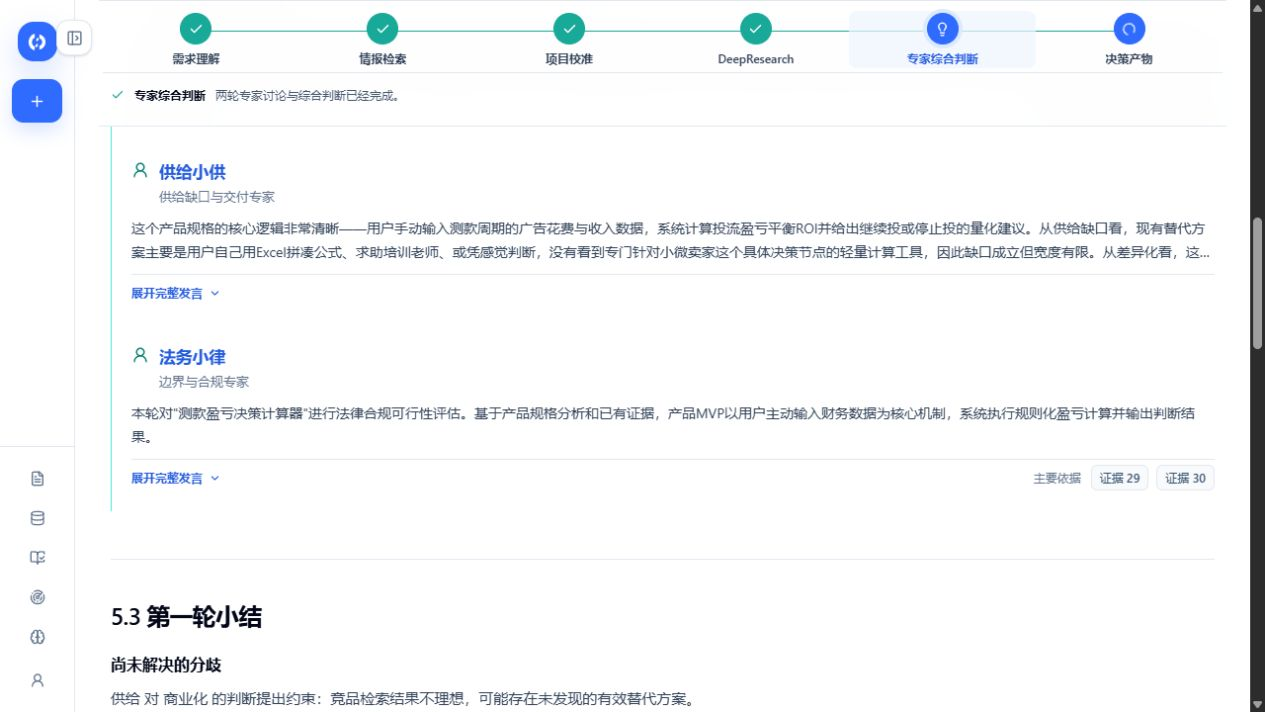
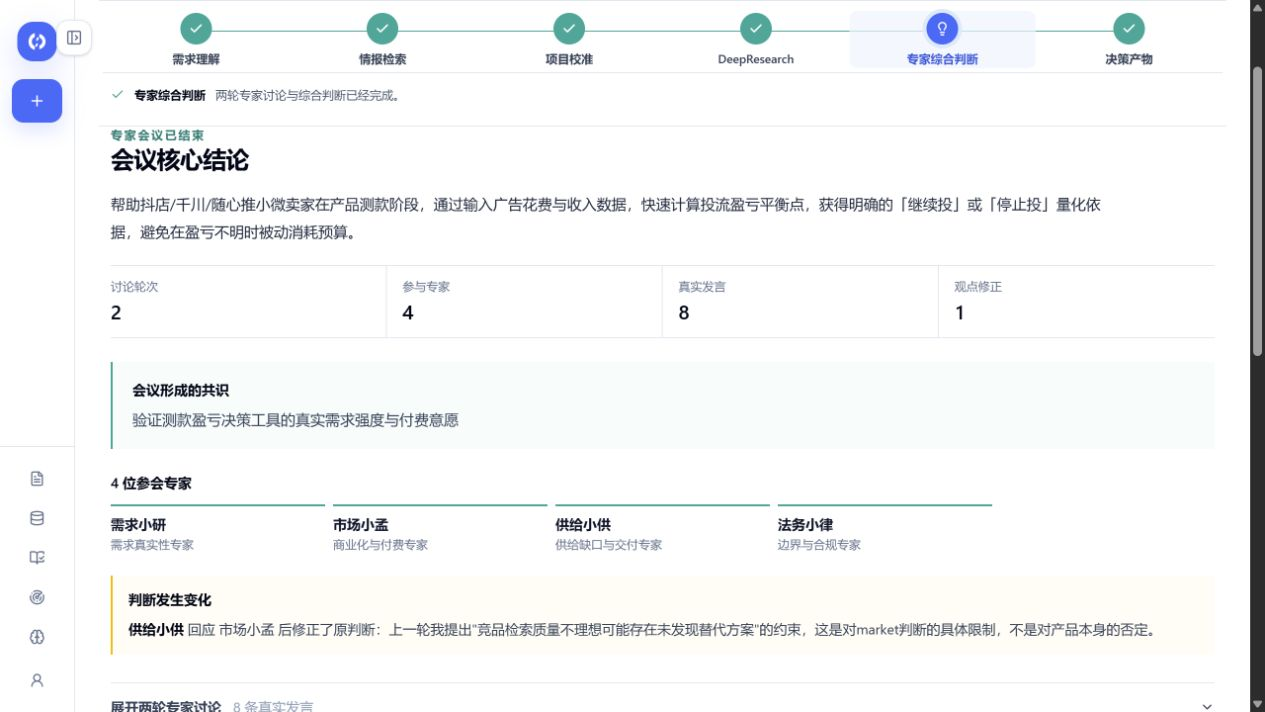
docs: show real opinion report and completed research results

diff --git a/docs/demo.md b/docs/demo.md
@@ -72,4 +72,16 @@
 
 ![同一对话中的真实后续追问](../assets/expert-followup.jpg)
 
-<sub>界面截图于 2026 年 10 月 13 日在本地最新版实际操作采集。主案例展示一个已完成候选需求的完整链路；专家对话为另一个独立案例。图中的计算器是 Agent 输出的候选产品方案。</sub>
+## 舆情研究：从公开讨论到有来源的报告
+
+**案例：AI 生成代码为什么仍需要人工审查？**
+
+1. 在对话入口选择舆情研究，输入关注主题和研究范围。本例关注开发者近期体验中的代码可靠性与审查负担。
+2. 等待系统完成公开讨论采集与归纳，报告展示主要观点、态度分布、讨论主题和争议焦点。本次真实任务收集 258 条资料，选取 60 条进入分析。
+3. 点击观点旁的证据编号，右侧显示对应评论、来源页面、发布时间和原网页入口，帮助理解结论的依据。
+
+![点击报告引用，查看对应原始评论与来源](../assets/opinion-source.jpg)
+
+**这一步得到：** 一份可以阅读、导出并回溯来源的舆情报告。报告只描述本次取得的样本；[查看完整报告界面](results.md#公开讨论可以形成有依据的报告)。
+
+<sub>界面截图于 2026 年 10 月 13 日在本地最新版实际操作采集。主案例展示一个已完成候选需求的完整链路；专家对话和舆情研究为独立案例。图中的计算器是 Agent 输出的候选产品方案。</sub>

diff --git a/README.md b/README.md
@@ -24,7 +24,7 @@
 | --- | --- | --- |
 | 需求与线索发现 | 输入业务方向，检索公开用户表达 | 需求线索、来源证据与潜在用户 |
 | 机会研究 | 输入想验证的方向与背景 | 有来源的研究结果、产品方案和验证建议 |
-| 舆情研究 | 提交关注的主题 | 公开讨论采集与来源整理 |
+| 舆情研究 | 提交关注的主题 | 主要观点、态度分布、争议焦点与可回看的原始来源 |
 | 专家定制 | 提供代表性资料与语料 | 可审核、可复用的专家资产 |
 | 研究追问 | 围绕当前结果继续提问 | 在同一研究上下文中进一步理解结论 |
 
@@ -50,6 +50,10 @@
 机会研究、舆情研究和专家定制共用同一个对话入口。已审核的专家可以通过 `@` 直接调用，研究和对话结果也可以继续追问。
 
 ![真实专家对话中的后续追问](assets/expert-followup.jpg)
+
+舆情研究也已跑通真实案例：围绕“AI 生成代码为什么仍需要人工审查”，工作台将公开讨论整理为主要观点、主题和争议焦点，点击引用即可回看原始评论。
+
+![真实舆情报告与原始来源](assets/opinion-report.jpg)
 
 ## 功能特点
 

diff --git a/docs/README.md b/docs/README.md
@@ -3,7 +3,7 @@
 | 入口 | 内容 |
 | --- | --- |
 | [项目首页](../README.md) | 产品定位、功能特点、个人贡献 |
-| [真实运行 SOP](demo.md) | 一条研究任务的操作步骤与原始截图 |
+| [真实运行 SOP](demo.md) | 机会研究、专家调用与舆情报告的真实操作和截图 |
 | [功能成果](results.md) | 功能带来的结果与对应界面 |
 | [精炼架构](architecture.md) | 三类能力如何协同 |
 | [作者主页](https://github.com/gaoming-a) | 求职方向与联系方式 |
